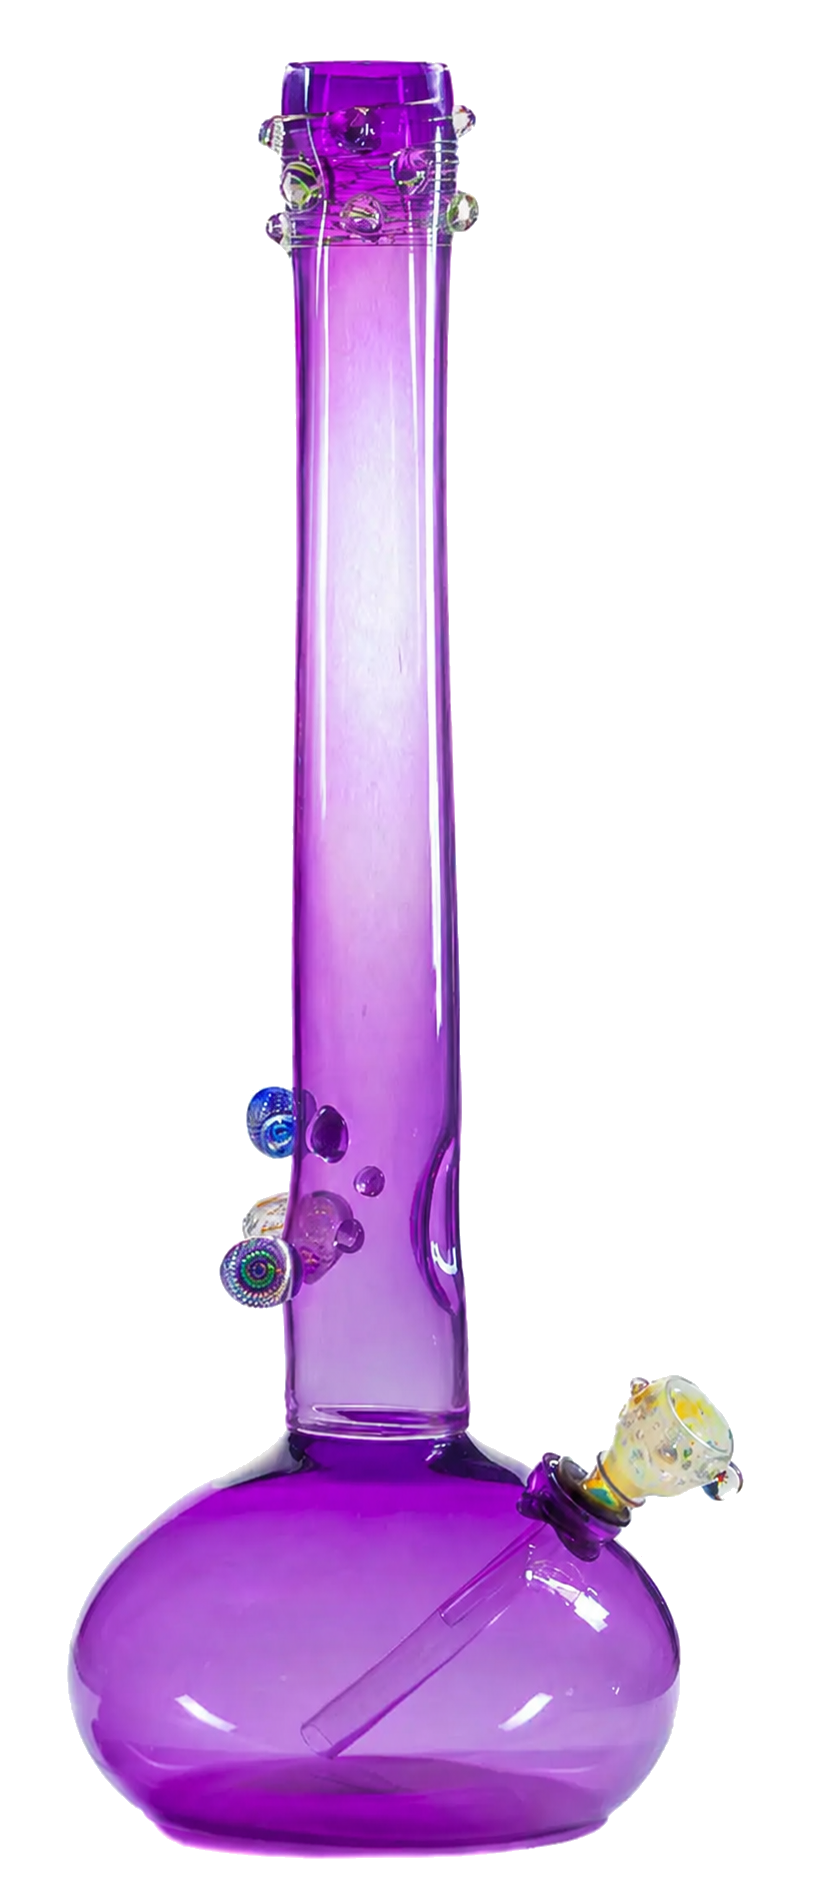
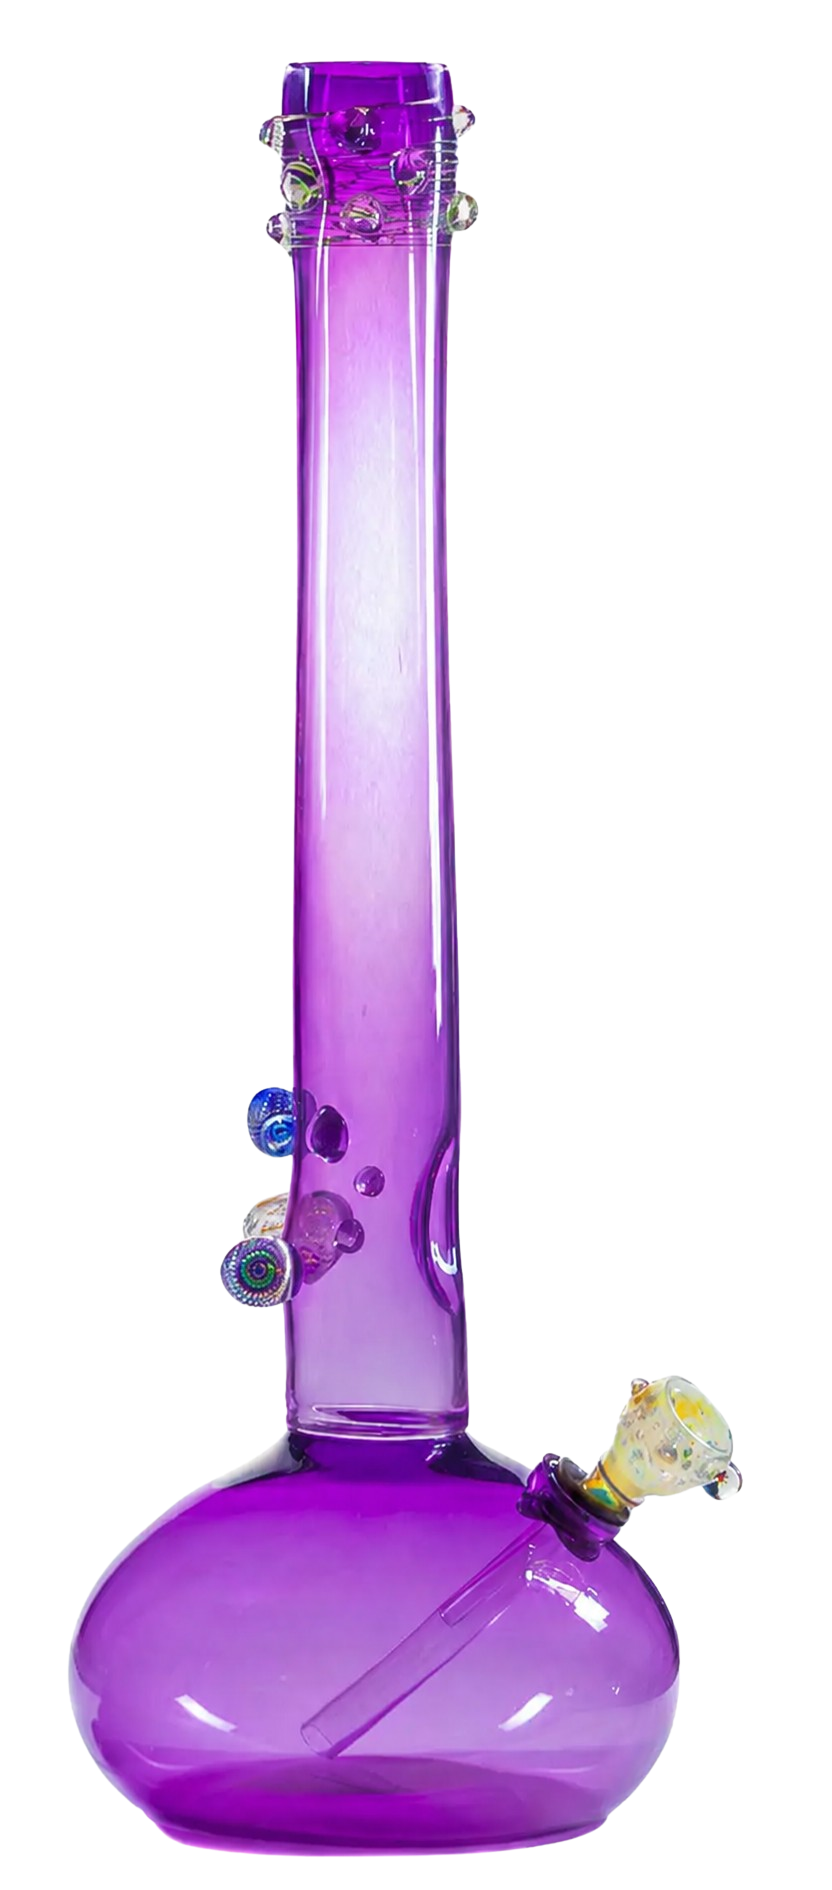
compare: better transparent ref, retry on 429, commit on failure

Changed region(s): [[0.3438, 0.4995, 0.375, 0.5307]]

diff --git a/tools/compare_one_scene.py b/tools/compare_one_scene.py
@@ -14,6 +14,9 @@ import os
 import sys
 from pathlib import Path
 
+import re
+import time
+
 try:
     import replicate
     import requests
@@ -21,6 +24,24 @@ try:
 except ImportError as e:
     sys.stderr.write(f"Missing dep: {e}\nInstall: pip install -r requirements.txt\n")
     sys.exit(1)
+
+
+def replicate_run_with_retry(model: str, input_dict: dict, max_attempts: int = 4):
+    """replicate.run() that respects Replicate's 'rate limit resets in ~Xs' hint.
+    Mirrors the retry helper in tools/generate.py."""
+    for attempt in range(1, max_attempts + 1):
+        try:
+            return replicate.run(model, input=input_dict)
+        except Exception as e:
+            msg = str(e)
+            is_429 = "429" in msg or "throttled" in msg.lower() or "rate limit" in msg.lower()
+            if not is_429 or attempt == max_attempts:
+                raise
+            m = re.search(r"in ~?(\d+)\s*s", msg)
+            wait = max(int(m.group(1)) + 2, 6) if m else 12 * attempt
+            print(f"  ⟲ rate-limited on {model} (attempt {attempt}/{max_attempts}) — waiting {wait}s…")
+            time.sleep(wait)
+    raise RuntimeError("unreachable")
 
 
 REPO = Path(__file__).resolve().parent.parent
@@ -105,9 +126,9 @@ def remove_background(input_url: str) -> bytes:
 
 def gen_scene_background() -> Path:
     """Generate the federal-building plaza scene with NO Jerome in it."""
-    out = replicate.run(
+    out = replicate_run_with_retry(
         "black-forest-labs/flux-1.1-pro",
-        input={
+        {
             "prompt": SCENE_FEDERAL_NO_JEROME,
             "aspect_ratio": "16:9",
             "output_format": "jpg",
@@ -159,9 +180,9 @@ def option_2_redux(reference_url: str, out_path: Path) -> None:
     """Use flux-redux-dev: takes the reference image + a scene prompt and
     blends them. Less exact than compositing but lighting integration is
     handled by the model."""
-    out = replicate.run(
+    out = replicate_run_with_retry(
         "black-forest-labs/flux-redux-dev",
-        input={
+        {
             "redux_image": reference_url,
             "prompt": SCENE_FEDERAL_WITH_JEROME,
             "aspect_ratio": "16:9",
@@ -201,8 +222,12 @@ def main():
     # ─── Option 2: flux-redux blend ─────────────────────────────────────────
     print("\n[Option 2] flux-redux blend with reference image…")
     option2 = IMG_DIR / "compare-option2-redux.jpg"
-    option_2_redux(ref_url, option2)
-    print(f"  ✓ {option2.name}  ({option2.stat().st_size // 1024} KB)")
+    try:
+        option_2_redux(ref_url, option2)
+        print(f"  ✓ {option2.name}  ({option2.stat().st_size // 1024} KB)")
+    except Exception as e:
+        print(f"  ✗ Option 2 failed: {e}", file=sys.stderr)
+        print("  (Option 1 already saved — workflow will commit what we have)")
 
     print("\nDone. Compare:")
     print(f"  {option1}")